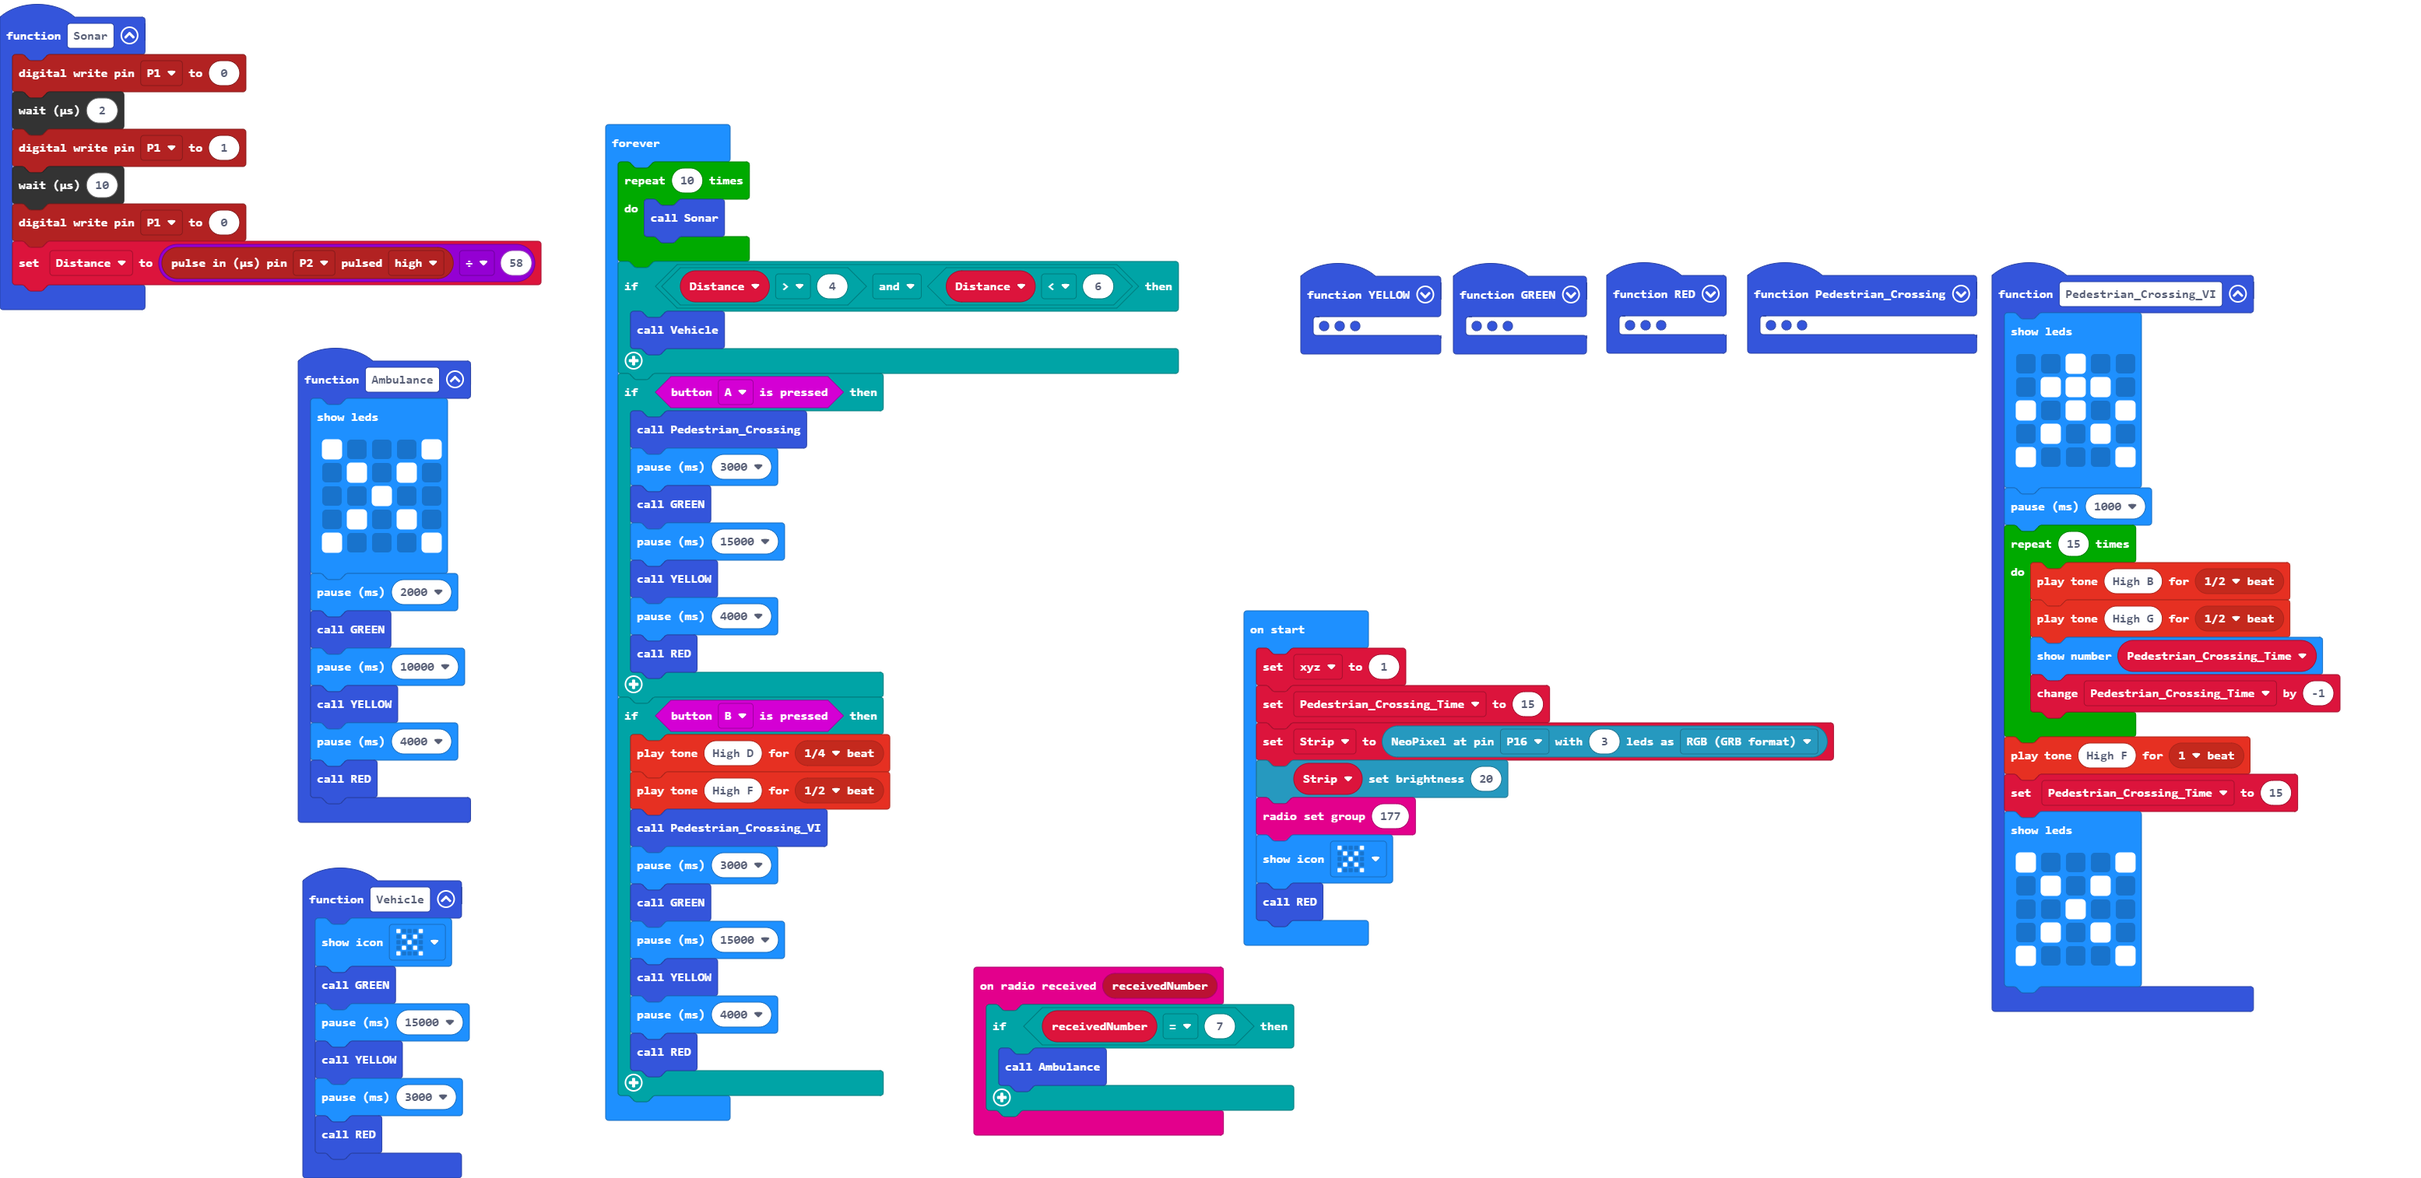
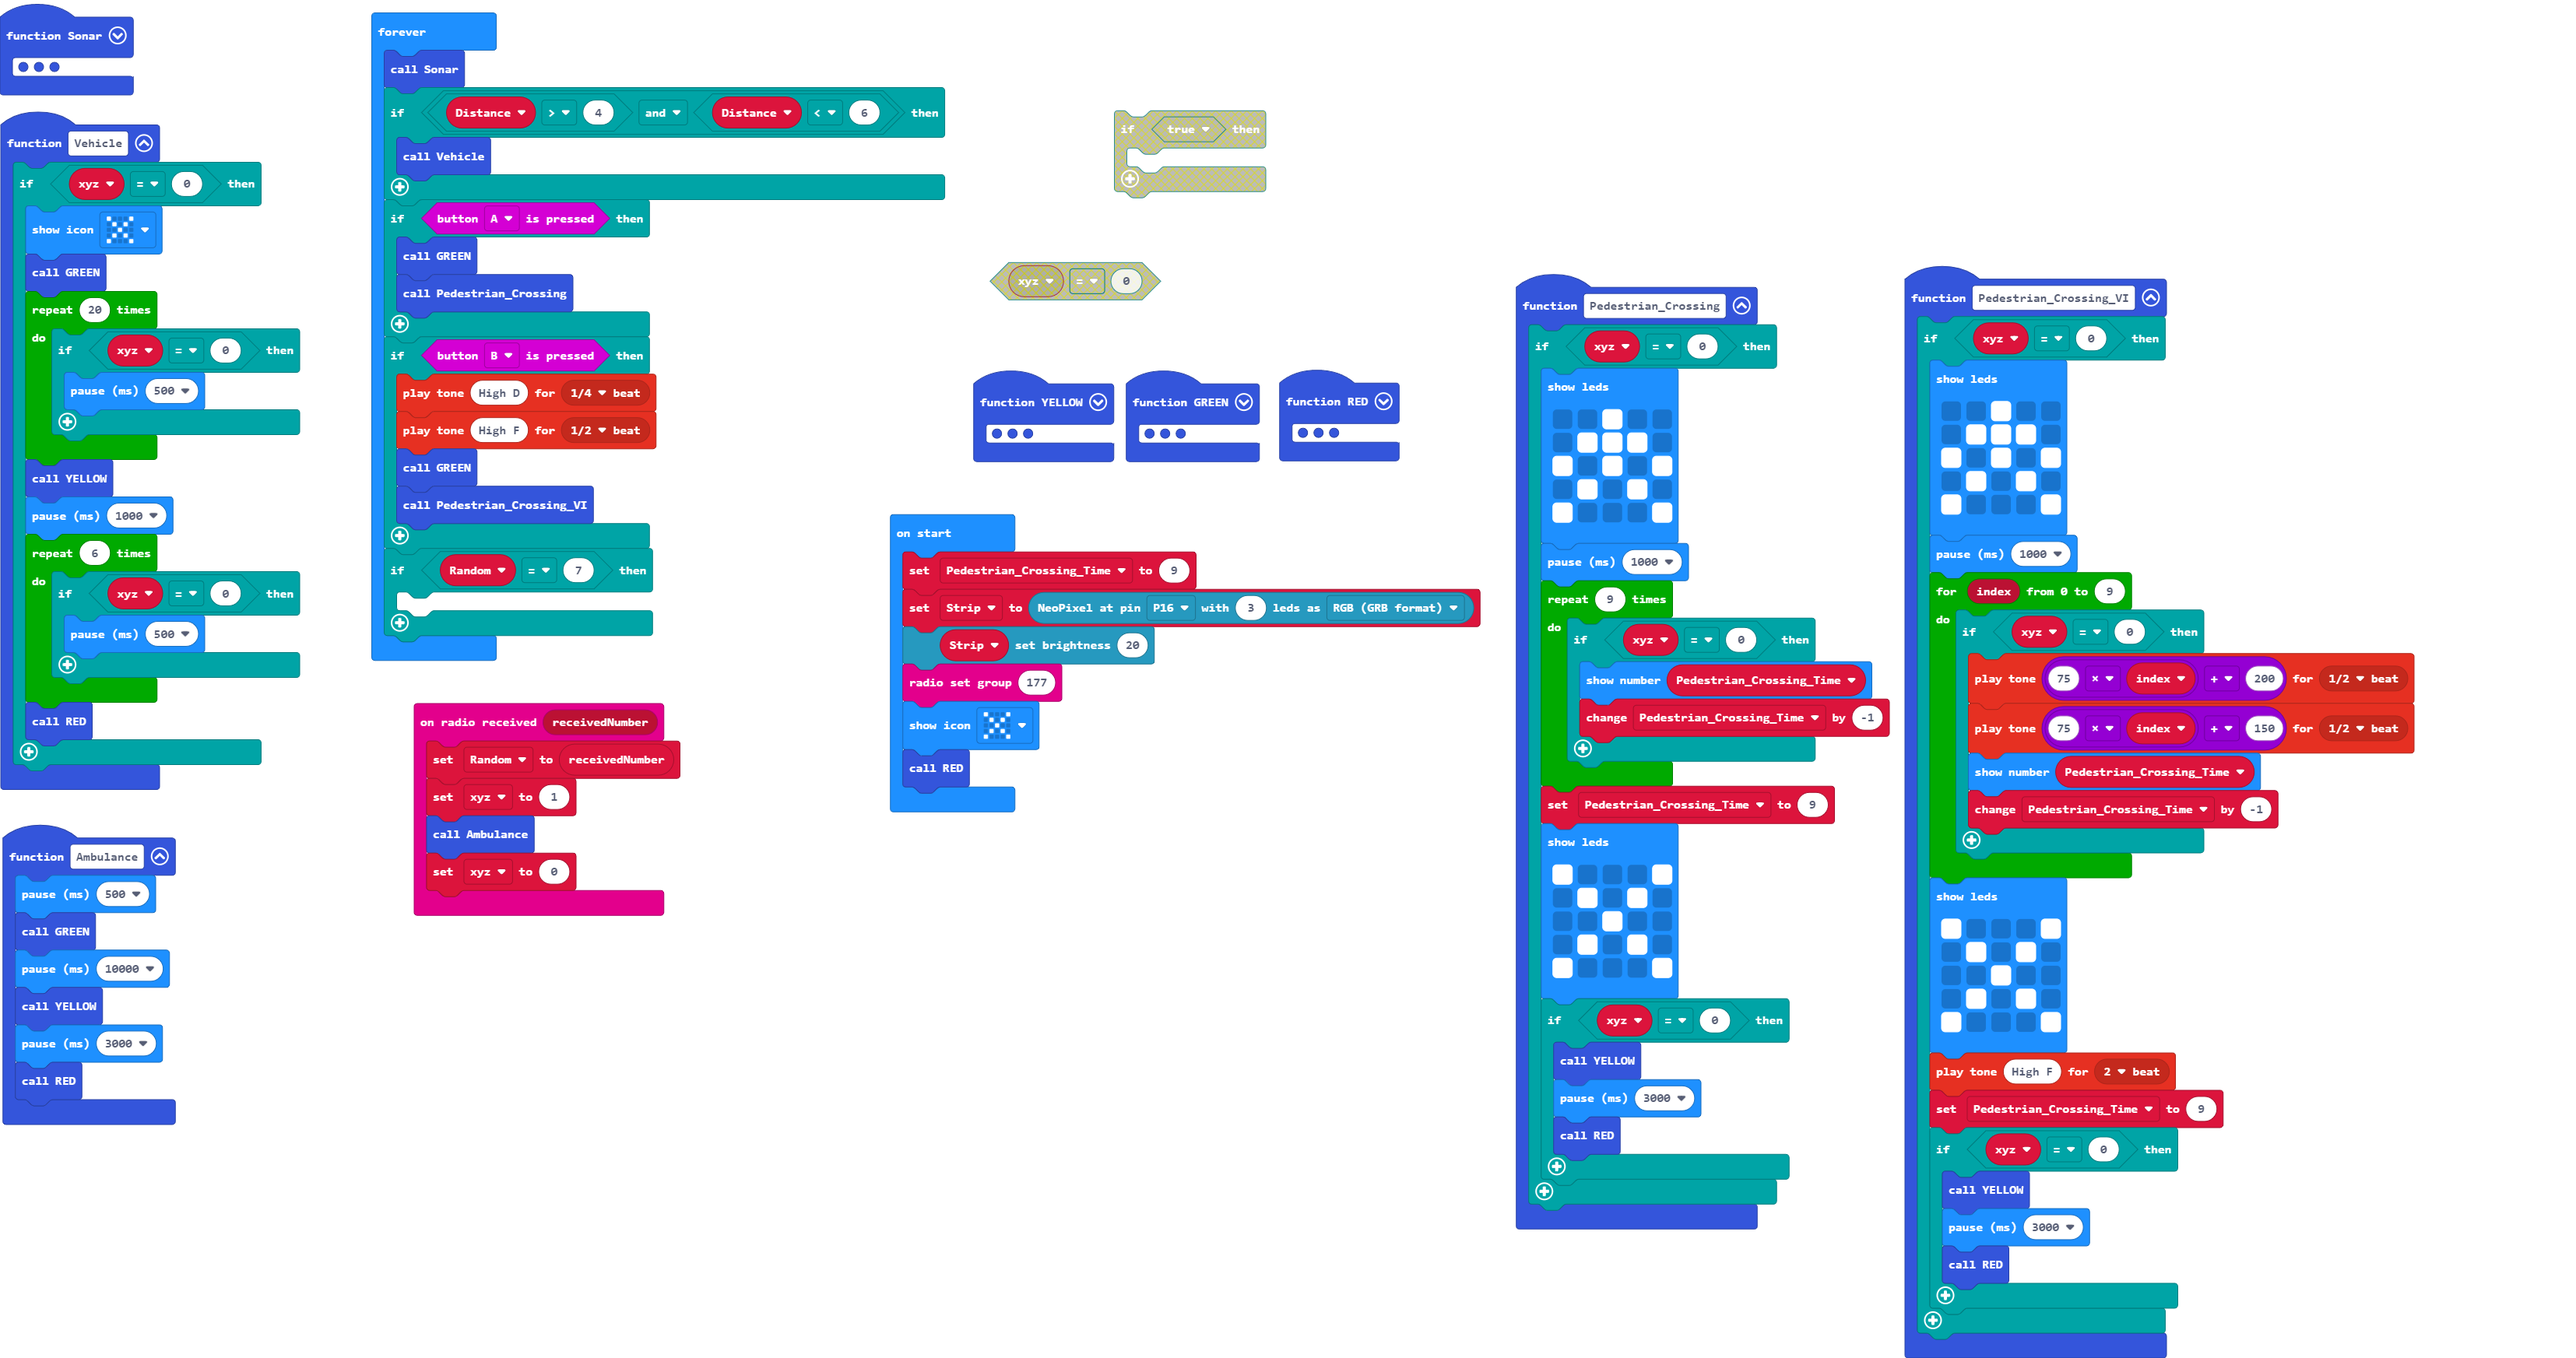
Update main.blocks, main.ts

diff --git a/main.ts b/main.ts
@@ -1,29 +1,39 @@
 function Pedestrian_Crossing () {
-    basic.showLeds(`
-        . . # . .
-        . # # # .
-        # . # . #
-        . # . # .
-        # . . . #
-        `)
-    basic.pause(1000)
-    for (let index = 0; index < 15; index++) {
-        basic.showNumber(Pedestrian_Crossing_Time)
-        Pedestrian_Crossing_Time += -1
+    if (xyz == 0) {
+        basic.showLeds(`
+            . . # . .
+            . # # # .
+            # . # . #
+            . # . # .
+            # . . . #
+            `)
+        basic.pause(1000)
+        for (let index = 0; index < 9; index++) {
+            if (xyz == 0) {
+                basic.showNumber(Pedestrian_Crossing_Time)
+                Pedestrian_Crossing_Time += -1
+            }
+        }
+        Pedestrian_Crossing_Time = 9
+        basic.showLeds(`
+            # . . . #
+            . # . # .
+            . . # . .
+            . # . # .
+            # . . . #
+            `)
+        if (xyz == 0) {
+            YELLOW()
+            basic.pause(3000)
+            RED()
+        }
     }
-    Pedestrian_Crossing_Time = 15
-    basic.showLeds(`
-        # . . . #
-        . # . # .
-        . . # . .
-        . # . # .
-        # . . . #
-        `)
 }
 radio.onReceivedNumber(function (receivedNumber) {
-    if (receivedNumber == 7) {
-        Ambulance()
-    }
+    Random = receivedNumber
+    xyz = 1
+    Ambulance()
+    xyz = 0
 })
 function Sonar () {
     pins.digitalWritePin(DigitalPin.P1, 0)
@@ -42,27 +52,31 @@ function RED () {
     range.showColor(neopixel.colors(NeoPixelColors.Black))
 }
 function Ambulance () {
-    basic.showLeds(`
-        # . . . #
-        . # . # .
-        . . # . .
-        . # . # .
-        # . . . #
-        `)
-    basic.pause(2000)
+    basic.pause(500)
     GREEN()
     basic.pause(10000)
     YELLOW()
-    basic.pause(4000)
+    basic.pause(3000)
     RED()
 }
 function Vehicle () {
-    basic.showIcon(IconNames.No)
-    GREEN()
-    basic.pause(15000)
-    YELLOW()
-    basic.pause(3000)
-    RED()
+    if (xyz == 0) {
+        basic.showIcon(IconNames.No)
+        GREEN()
+        for (let index = 0; index < 20; index++) {
+            if (xyz == 0) {
+                basic.pause(500)
+            }
+        }
+        YELLOW()
+        basic.pause(1000)
+        for (let index = 0; index < 6; index++) {
+            if (xyz == 0) {
+                basic.pause(500)
+            }
+        }
+        RED()
+    }
 }
 function GREEN () {
     range = Strip.range(0, 1)
@@ -73,29 +87,38 @@ function GREEN () {
     range.showColor(neopixel.colors(NeoPixelColors.Green))
 }
 function Pedestrian_Crossing_VI () {
-    basic.showLeds(`
-        . . # . .
-        . # # # .
-        # . # . #
-        . # . # .
-        # . . . #
-        `)
-    basic.pause(1000)
-    for (let index = 0; index < 15; index++) {
-        music.playTone(988, music.beat(BeatFraction.Half))
-        music.playTone(784, music.beat(BeatFraction.Half))
-        basic.showNumber(Pedestrian_Crossing_Time)
-        Pedestrian_Crossing_Time += -1
+    if (xyz == 0) {
+        basic.showLeds(`
+            . . # . .
+            . # # # .
+            # . # . #
+            . # . # .
+            # . . . #
+            `)
+        basic.pause(1000)
+        for (let index = 0; index <= 9; index++) {
+            if (xyz == 0) {
+                music.playTone(75 * index + 200, music.beat(BeatFraction.Half))
+                music.playTone(75 * index + 150, music.beat(BeatFraction.Half))
+                basic.showNumber(Pedestrian_Crossing_Time)
+                Pedestrian_Crossing_Time += -1
+            }
+        }
+        basic.showLeds(`
+            # . . . #
+            . # . # .
+            . . # . .
+            . # . # .
+            # . . . #
+            `)
+        music.playTone(698, music.beat(BeatFraction.Double))
+        Pedestrian_Crossing_Time = 9
+        if (xyz == 0) {
+            YELLOW()
+            basic.pause(3000)
+            RED()
+        }
     }
-    music.playTone(698, music.beat(BeatFraction.Whole))
-    Pedestrian_Crossing_Time = 15
-    basic.showLeds(`
-        # . . . #
-        . # . # .
-        . . # . .
-        . # . # .
-        # . . . #
-        `)
 }
 function YELLOW () {
     range = Strip.range(0, 1)
@@ -107,40 +130,32 @@ function YELLOW () {
 }
 let range: neopixel.Strip = null
 let Distance = 0
+let Random = 0
+let xyz = 0
 let Strip: neopixel.Strip = null
 let Pedestrian_Crossing_Time = 0
-let xyz = 1
-Pedestrian_Crossing_Time = 15
+Pedestrian_Crossing_Time = 9
 Strip = neopixel.create(DigitalPin.P16, 3, NeoPixelMode.RGB)
 Strip.setBrightness(20)
 radio.setGroup(177)
 basic.showIcon(IconNames.No)
 RED()
 basic.forever(function () {
-    for (let index = 0; index < 10; index++) {
-        Sonar()
-    }
+    Sonar()
     if (Distance > 4 && Distance < 6) {
         Vehicle()
     }
     if (input.buttonIsPressed(Button.A)) {
-        Pedestrian_Crossing()
-        basic.pause(3000)
         GREEN()
-        basic.pause(15000)
-        YELLOW()
-        basic.pause(4000)
-        RED()
+        Pedestrian_Crossing()
     }
     if (input.buttonIsPressed(Button.B)) {
         music.playTone(587, music.beat(BeatFraction.Quarter))
         music.playTone(698, music.beat(BeatFraction.Half))
-        Pedestrian_Crossing_VI()
-        basic.pause(3000)
         GREEN()
-        basic.pause(15000)
-        YELLOW()
-        basic.pause(4000)
-        RED()
+        Pedestrian_Crossing_VI()
+    }
+    if (Random == 7) {
+    	
     }
 })
